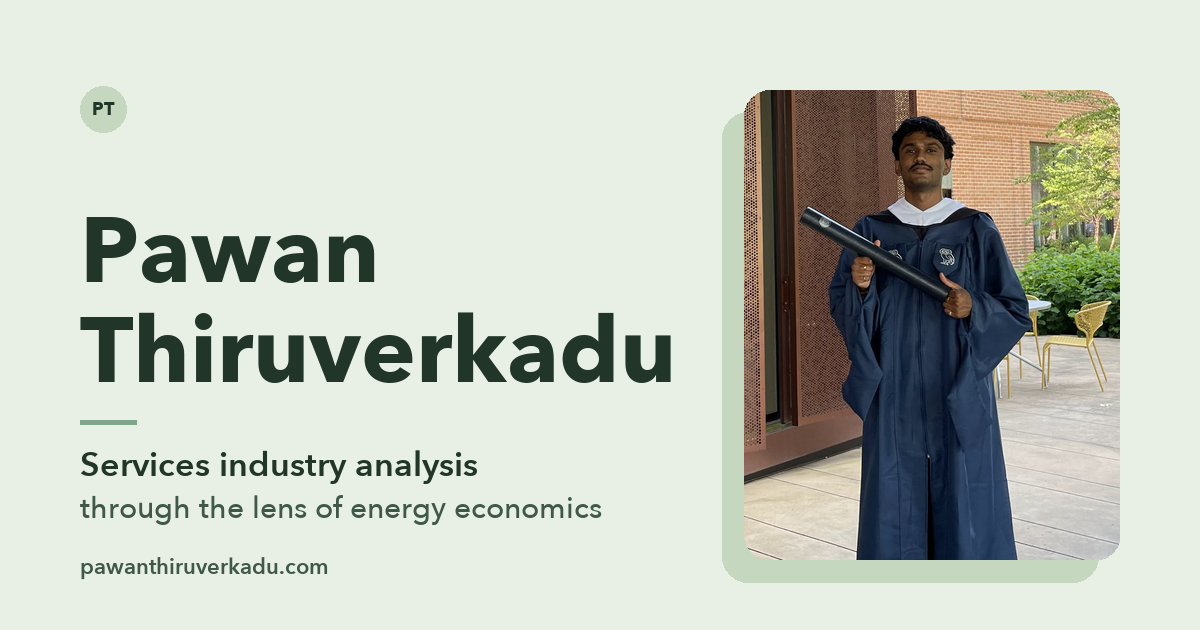
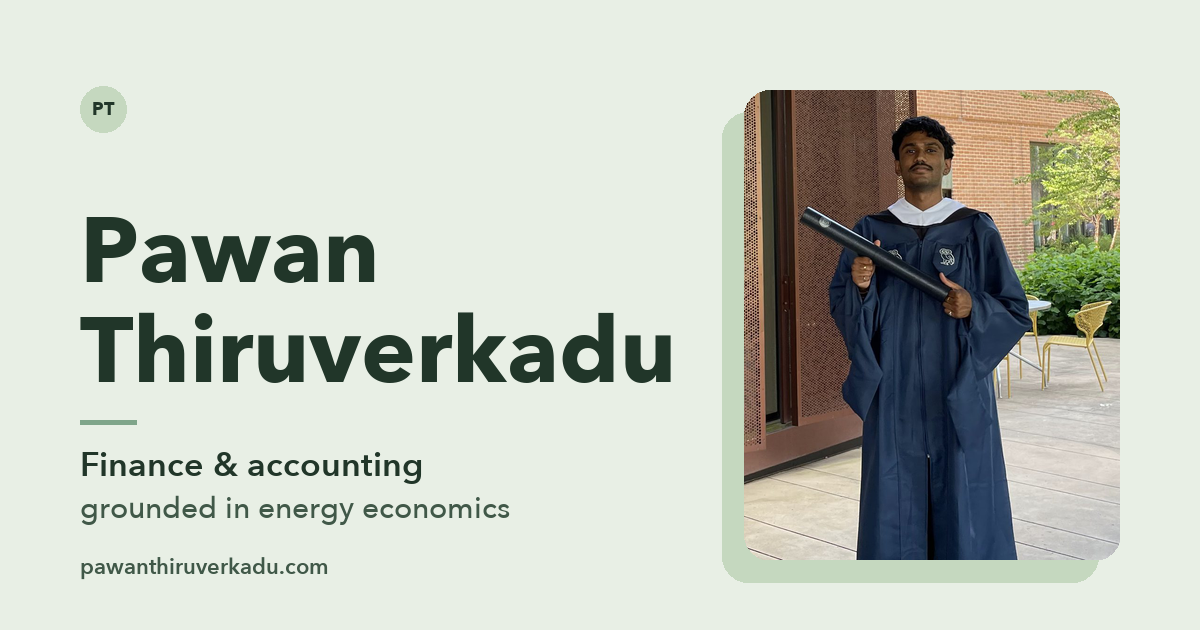
Add files via upload

Changed region(s): [[0.0617, 0.7238, 0.4933, 0.8444]]

diff --git a/index.html b/index.html
@@ -3,8 +3,8 @@
 <head>
   <meta charset="utf-8">
   <meta name="viewport" content="width=device-width, initial-scale=1">
-  <title>Pawan Thiruverkadu · Services Industry Analysis &amp; Energy Economics</title>
-  <meta name="description" content="Pawan Thiruverkadu writes analysis of the services industry, grounded in energy economics. Senior Analyst in finance and accounting at ModernControls, an Orion Services Group company; master&#x27;s in energy economics from Rice University.">
+  <title>Pawan Thiruverkadu · Finance &amp; Accounting, Energy Economics</title>
+  <meta name="description" content="Personal site of Pawan Thiruverkadu: thoughts, experience, and reports. Senior Analyst in finance and accounting with deep technical knowledge of the energy industry, applied to work in the services industry; master&#x27;s in energy economics from Rice University. Views are my own.">
   <meta name="theme-color" content="#e8efe5" media="(prefers-color-scheme: light)">
   <meta name="theme-color" content="#141c17" media="(prefers-color-scheme: dark)">
   <link rel="preconnect" href="https://fonts.googleapis.com">
@@ -18,17 +18,17 @@
   <meta property="og:site_name" content="Pawan Thiruverkadu">
   <meta property="og:type" content="profile">
   <meta property="og:url" content="https://pawanthiruverkadu.com/">
-  <meta property="og:title" content="Pawan Thiruverkadu · Services Industry Analysis &amp; Energy Economics">
-  <meta property="og:description" content="Pawan Thiruverkadu writes analysis of the services industry, grounded in energy economics. Senior Analyst in finance and accounting at ModernControls, an Orion Services Group company; master&#x27;s in energy economics from Rice University.">
+  <meta property="og:title" content="Pawan Thiruverkadu · Finance &amp; Accounting, Energy Economics">
+  <meta property="og:description" content="Personal site of Pawan Thiruverkadu: thoughts, experience, and reports. Senior Analyst in finance and accounting with deep technical knowledge of the energy industry, applied to work in the services industry; master&#x27;s in energy economics from Rice University. Views are my own.">
   <meta property="og:image" content="https://pawanthiruverkadu.com/assets/og-image.png">
   <meta property="og:image:width" content="1200">
   <meta property="og:image:height" content="630">
   <meta name="twitter:card" content="summary_large_image">
-  <meta name="twitter:title" content="Pawan Thiruverkadu · Services Industry Analysis &amp; Energy Economics">
-  <meta name="twitter:description" content="Pawan Thiruverkadu writes analysis of the services industry, grounded in energy economics. Senior Analyst in finance and accounting at ModernControls, an Orion Services Group company; master&#x27;s in energy economics from Rice University.">
+  <meta name="twitter:title" content="Pawan Thiruverkadu · Finance &amp; Accounting, Energy Economics">
+  <meta name="twitter:description" content="Personal site of Pawan Thiruverkadu: thoughts, experience, and reports. Senior Analyst in finance and accounting with deep technical knowledge of the energy industry, applied to work in the services industry; master&#x27;s in energy economics from Rice University. Views are my own.">
   <meta name="twitter:image" content="https://pawanthiruverkadu.com/assets/og-image.png">
   <link rel="alternate" type="application/rss+xml" title="Pawan Thiruverkadu · Reports" href="https://pawanthiruverkadu.com/feed.xml">
-  <script type="application/ld+json">{"@context": "https://schema.org", "@type": "Person", "@id": "https://pawanthiruverkadu.com/#person", "name": "Pawan Thiruverkadu", "url": "https://pawanthiruverkadu.com/", "image": "https://pawanthiruverkadu.com/assets/portrait.jpg", "email": "mailto:pawan@pawanthiruverkadu.com", "jobTitle": "Senior Analyst, Finance & Accounting", "worksFor": {"@type": "Organization", "name": "ModernControls", "url": "https://www.moderncontrols.com/", "parentOrganization": {"@type": "Organization", "name": "Orion Services Group", "url": "https://orionservicesgroup.com/"}}, "alumniOf": [{"@type": "CollegeOrUniversity", "name": "Rice University"}, {"@type": "CollegeOrUniversity", "name": "University of Houston"}, {"@type": "CollegeOrUniversity", "name": "Texas A&M University"}], "knowsAbout": ["Services industry analysis", "Energy economics", "Financial planning and analysis", "Treasury", "Cost accounting", "Financial modeling", "Econometrics", "Power BI", "Python"], "sameAs": []}</script>
+  <script type="application/ld+json">{"@context": "https://schema.org", "@type": "Person", "@id": "https://pawanthiruverkadu.com/#person", "name": "Pawan Thiruverkadu", "url": "https://pawanthiruverkadu.com/", "image": "https://pawanthiruverkadu.com/assets/portrait.jpg", "email": "mailto:pawan@pawanthiruverkadu.com", "jobTitle": "Senior Analyst, Finance & Accounting", "worksFor": {"@type": "Organization", "name": "ModernControls", "url": "https://www.moderncontrols.com/", "parentOrganization": {"@type": "Organization", "name": "Orion Services Group", "url": "https://orionservicesgroup.com/"}}, "alumniOf": [{"@type": "CollegeOrUniversity", "name": "Rice University"}, {"@type": "CollegeOrUniversity", "name": "University of Houston"}, {"@type": "CollegeOrUniversity", "name": "Texas A&M University"}], "knowsAbout": ["Energy economics", "Energy industry", "Services industry", "Financial planning and analysis", "Treasury", "Cost accounting", "Financial modeling", "Econometrics", "Power BI", "Python"], "sameAs": []}</script>
   <script type="application/ld+json">{"@context": "https://schema.org", "@type": "WebSite", "name": "Pawan Thiruverkadu", "url": "https://pawanthiruverkadu.com/", "author": {"@id": "https://pawanthiruverkadu.com/#person"}}</script>
   <!-- seo:end -->
 </head>
@@ -53,9 +53,9 @@
         <p class="hero__role">Senior Analyst, Finance &amp; Accounting <span class="hero__org">ModernControls, an Orion Services Group company</span></p>
 
         <p class="hero__lead">
-          I work in finance and accounting in the services industry, and my background is in
-          energy economics. I write analysis of the services industry, bringing the quantitative
-          toolkit I built in energy to how services businesses work.
+          I work in finance and accounting. I have deep technical knowledge of the energy industry,
+          and I use it as the baseline for my understanding and capabilities in my current work
+          in the services industry.
         </p>
         <p class="hero__body">
           I was born in India, lived in the United Kingdom from 2007 to 2009, and moved to the
@@ -67,7 +67,7 @@
         <dl class="facts">
           <div class="facts__row">
             <dt>Focus</dt>
-            <dd>Services industry analysis · Energy economics · Finance &amp; accounting</dd>
+            <dd>Finance &amp; accounting · Energy economics</dd>
           </div>
           <div class="facts__row">
             <dt>Work authorization</dt>
@@ -78,6 +78,11 @@
             <dd><a class="inline-link" href="mailto:pawan@pawanthiruverkadu.com">pawan@pawanthiruverkadu.com</a></dd>
           </div>
         </dl>
+
+        <p class="personal-note">
+          <strong>A personal site.</strong> This is a repository for my own thoughts and experiences.
+          It is separate from my work at my current company, and the views here are my own, not my employer’s.
+        </p>
 
         <div class="hero__actions">
           <a class="button" href="mailto:pawan@pawanthiruverkadu.com">Get in touch</a>

diff --git a/styles.css b/styles.css
@@ -583,6 +583,19 @@ html { scroll-behavior: smooth; }
 .role__project .button--quiet { background: var(--bg); }
 .button--quiet:hover { background: var(--panel); color: var(--ink); }
 
+.personal-note {
+  margin-top: 1.75rem;
+  max-width: 60ch;
+  padding: 1rem 1.25rem;
+  background: var(--surface);
+  border-radius: 0.875rem;
+  color: var(--ink-soft);
+  font-size: 0.9375rem;
+  line-height: 1.6;
+}
+.personal-note strong { color: var(--ink); font-weight: 700; }
+.hero__actions + .personal-note, .personal-note + .hero__actions { margin-top: 1.25rem; }
+
 .hero__actions {
   display: flex;
   flex-wrap: wrap;
@@ -1031,7 +1044,8 @@ html { scroll-behavior: smooth; }
 .hero__lead    { animation: rise 700ms var(--ease-out) 320ms both; }
 .hero__body    { animation: rise 700ms var(--ease-out) 400ms both; }
 .hero .facts   { animation: rise 700ms var(--ease-out) 480ms both; }
-.hero__actions { animation: rise 700ms var(--ease-out) 560ms both; }
+.personal-note { animation: rise 700ms var(--ease-out) 540ms both; }
+.hero__actions { animation: rise 700ms var(--ease-out) 620ms both; }
 .hero__photo::before { animation: panel-in 900ms var(--ease-out) 200ms both; }
 .hero__photo img     { animation: photo-in 1100ms var(--ease-in-out) 120ms both; }
 
